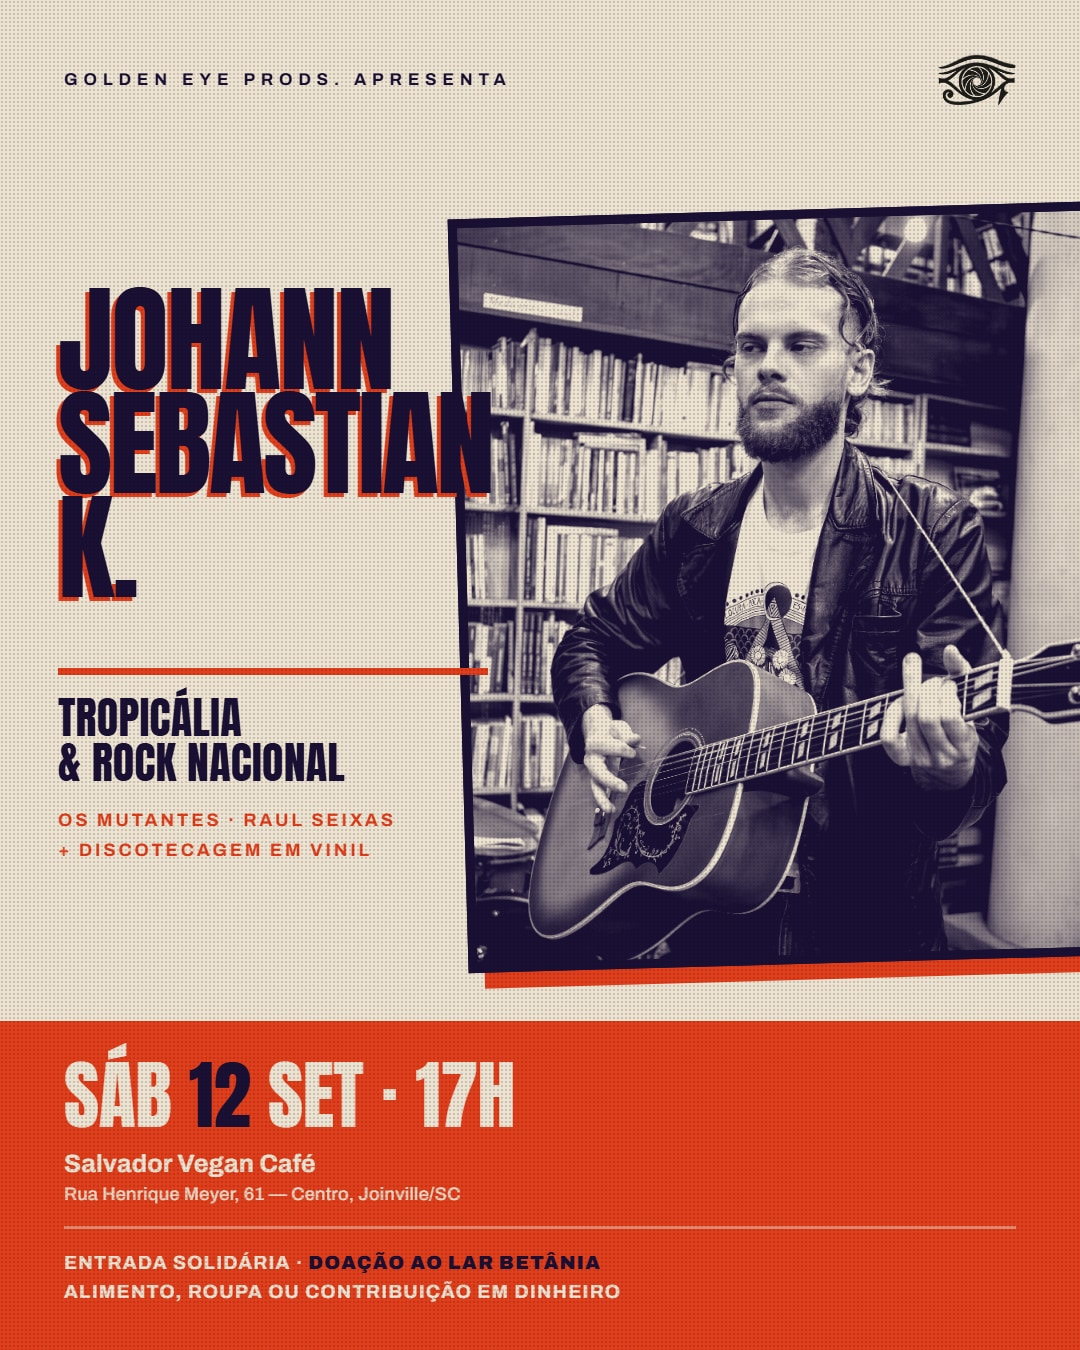
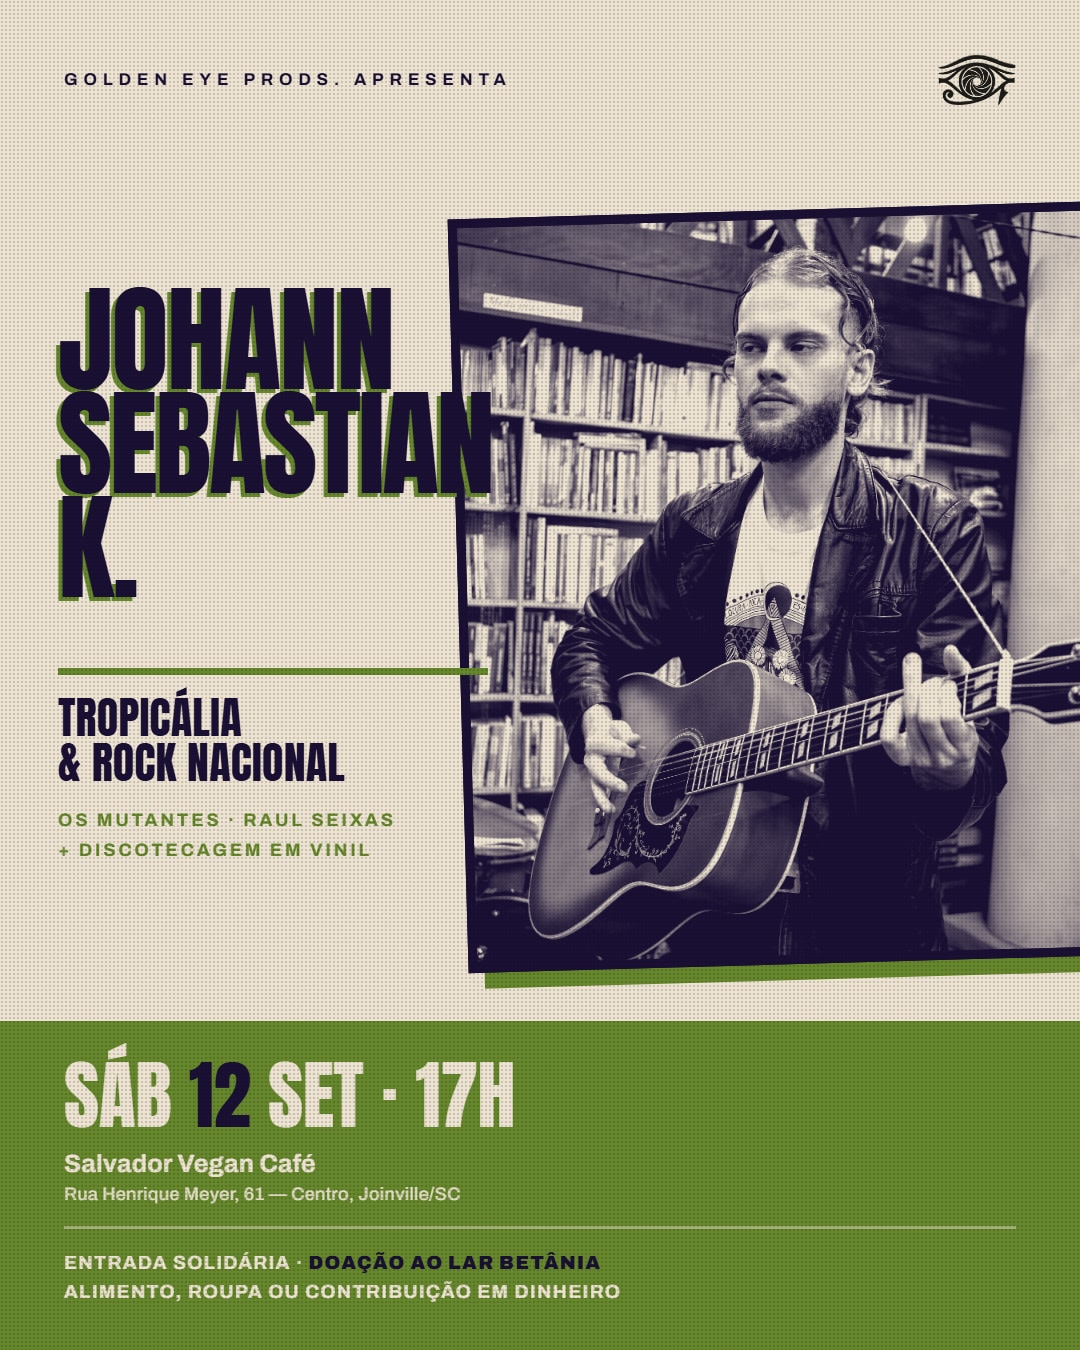
Troca o cartaz para verde-abacate
Usei #688a2d, mais fechado que o abacate claro que eu tinha sugerido.
No rodapé o texto é creme sobre essa cor, e o tom claro deixava a leitura
fraca de longe — que é justamente como se lê cartaz colado na parede.

Os três formatos foram gerados de novo a partir do mesmo código: mudar a
cor foi uma linha de CSS.

Changed region(s): [[0.0, 0.6844, 1.0, 1.0], [0.0306, 0.2178, 0.4583, 0.4978], [0.0611, 0.5911, 0.3667, 0.6533]]

diff --git a/cartazes/cartaz.html b/cartazes/cartaz.html
@@ -16,7 +16,7 @@
 
   :root {
     --papel:     #f2e8d5;   /* creme, o papel */
-    --tinta-1:   #e63f1c;   /* vermelhão */
+    --tinta-1:   #688a2d;   /* verde-abacate */
     --tinta-2:   #1a1035;   /* roxo quase preto */
     --ouro:      #c9973a;
   }

diff --git a/cartazes/impresso-a4.html b/cartazes/impresso-a4.html
@@ -16,7 +16,7 @@
 
   :root {
     --papel:     #f2e8d5;   /* creme, o papel */
-    --tinta-1:   #e63f1c;   /* vermelhão */
+    --tinta-1:   #688a2d;   /* verde-abacate */
     --tinta-2:   #1a1035;   /* roxo quase preto */
     --ouro:      #c9973a;
   }

diff --git a/cartazes/story.html b/cartazes/story.html
@@ -16,7 +16,7 @@
 
   :root {
     --papel:     #f2e8d5;   /* creme, o papel */
-    --tinta-1:   #e63f1c;   /* vermelhão */
+    --tinta-1:   #688a2d;   /* verde-abacate */
     --tinta-2:   #1a1035;   /* roxo quase preto */
     --ouro:      #c9973a;
   }
